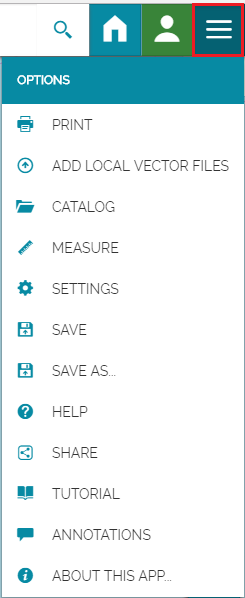
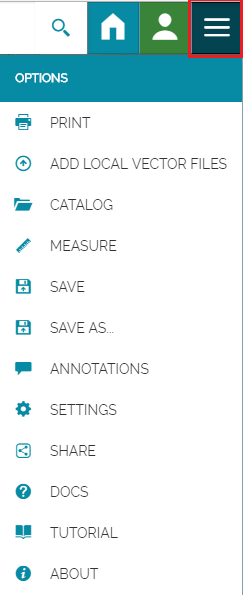
updates

diff --git a/docs/user-guide/widgets.md b/docs/user-guide/widgets.md
@@ -1,0 +1,93 @@
+# Creating Widgets
+******************
+
+In addition to adding layers to the map, in [MapStore 2](https://mapstore2.geo-solutions.it/mapstore/#/) the user can create widgets from the added layers. Widgets are graphical elements created by the user that describe and visualize qualitatively and quantitatively the data of the layer such as charts, texts, tables and counters. 
+
+* **Open** a new map.
+* **Add** a layer (e.g. USA Population).
+* **Select** the layer from the TOC.
+* **Click** on the widget icon <img src="img/widgets.png" style="max-width:25px;"/>. 
+
+The Widget page will open showing the various widget types to create. 
+
+  <img src="img/widget-list.png" style="max-width:400px;"/>
+
+Creating Chart Widget
+---------------------
+
+* **Click** on *Chart* from the list. Another page will open showing the Chart types (Bar Chart, Pie Chart and Line Chart). 
+  
+  <img src="img/chart-types.png" style="max-width:400px;"/>
+
+* **Select** for example the *Bar Chart*. You will be addressed to the configuration page to configure the data.
+
+  <img src="img/bar-chart.png" style="max-width:400px;"/>
+
+<br>
+
+On the top of the page, you can find a set of options <img src="img/widget-options.png" style="max-width:90px;"/> that allow you to switch back and forward the pages of the form, a connection button (highlighted in green which is active by default) that connects the chart to the viewport, and an advanced filter that allows you to plot only the filtered data. 
+
+* **Configure** the data you want to plot and the operation. Activating the *Advanced Options* you can customize the shape of the chart. 
+
+  <img src="img/configure-chart.png" style="max-width:400px;"/>
+
+* * **Click** on *Configure widget options*  <img src="img/next.png" style="max-width:25px;"/>. 
+   * **Set** a *Title* and a *Description*. 
+   * **Click** on *Save*.
+
+  <img src="img/widget-info.png" style="max-width:400px;"/>
+
+The widget will be added to the map. 
+
+<img src="img/widget-map.png" style="max-width:650px;"/>
+
+Expanding the options menu of the widget you can show the plotted data, edit the widget or delete it, download the data as a CSV file or save the image of the graph. 
+
+<img src="img/widget-menu.png" style="max-width:650px;"/>
+
+<br>
+<br>
+
+Similarly, you can add to the map Pie and Line Charts.
+
+Creating Text Widget
+--------------------
+
+* **Select** the Text widget from the list. The Text widget form will open where you can add a Title and the desired descriptive text. 
+
+  <img src="img/text-widget.png" style="max-width:650px;"/>
+
+* **Click** on the save button to add the widget to the map. 
+
+  <img src="img/text-map.png" style="max-width:500px;"/>
+
+Creating Table widget
+---------------------
+
+* **Select** the Table widget from the list. You will be addressed to the configuration page. 
+
+
+  <img src="img/table-widget.png" style="max-width:650px;"/>  
+
+* * **Choose** the fields you want to include in the table.
+  * **click** on the next button <img src="img/next.png" style="max-width:25px;"/>.
+
+  * **Set** a Title and a Description.
+  * **Add** the widget to the map. 
+
+    <img src="img/table-map.png" style="max-width:500px;"/>
+
+Creating Counter Widget
+-----------------------
+
+ * **Select** the Counter widget from the list. You will be addressed to the configuration page. 
+  * **Configure** the data you want to count.  
+
+    <img src="img/counter-widget.png" style="max-width:650px;"/> 
+
+  * **click** on the next button <img src="img/next.png" style="max-width:25px;"/>.
+
+  * **Set** a Title and a Description.
+  * **Add** the widget to the map.
+<b>
+  <img src="img/counter-map.png" style="max-width:500px;"/>

diff --git a/docs/user-guide/menu-bar.md b/docs/user-guide/menu-bar.md
@@ -12,9 +12,9 @@ The *Search Bar* of the portal allows you to find point of interests (POIs), str
 
   <img src="img/rome.png" style="max-width:700px;" />
 
-Option Menu
+Burger Menu
 -----------
-The *Option Menu* is the core of the *Menu Bar* and will be treated in details. It contains several options to add data from different sources to the map, perform measurments, and to save, print and share the created map. 
+The *Burger Menu* is the core of the *Menu Bar* and will be treated in details. It contains several options to add data from different sources to the map, perform measurments, and to save, print and share the created map. 
 
 <img src="img/menu-options.png" style="max-height:500px;" />
 
@@ -23,9 +23,9 @@ The *Option Menu* is the core of the *Menu Bar* and will be treated in details. 
 
 Click on the following links to learn more about the main options:
 
+* [PRINT](print): allows you to print a created map;
 * [ADD LOCAL VECTOR FILES](local-files): allows to import from your machine vector files to be added to  the map;
 * [CATALOG](catalog): allows you to import data from several remote services;
 * [MEASURE](measure): tools to perform measurments on the map;
 * [ANNOTATIONS](annotations): allows you to create customized annotations and add them to the map;
-* [PRINT](print): allows you to print a created map;
 * [SHARE](share): allows you to share your map.    

diff --git a/docs/user-guide/attributes-table.md b/docs/user-guide/attributes-table.md
@@ -2,7 +2,7 @@
 *****************
 In GIS, the attribute table associated to a vector layer is a table that stores tabular informations related to the layer. The columns of the table are called fields and the rows are called records. Each record of the attribute table corrisponds to one feature geometry of the layer. This relation allows to find records in the table (informations) by selecting features on the map and viceversa.
 
-In [MapStore 2](https://mapstore2.geo-solutions.it/mapstore/#/), accessing the attribute table of a vector layer allows you to edit the tabular data or directly the geometries on the map, to perform spatial queries and filters and to create charts from the data.
+In [MapStore 2](https://mapstore2.geo-solutions.it/mapstore/#/), accessing the attribute table of a vector layer allows you to edit the tabular data or directly the geometries on the map, to perform spatial queries and filters, and to create charts from the data.
 
 * **Open** a new map.
 * **Add** a vector layer (e.g. USA Population).
@@ -15,3 +15,5 @@ The attribute table will open showing the data table and a set of functionalitie
 
 Editing
 -------
+
+

diff --git a/docs/user-guide/toc.md b/docs/user-guide/toc.md
@@ -89,7 +89,7 @@ After adding a layer, several options can be accessed from the TOC allowing you 
 The remaining tools will be faced in detail in separate sections:
 
 *  <img src="img/properties.png" /> [Layer Settings](layer-settings): allows you to manage the layers in groups, to set the display mode and the style of the layers, and to set the format of the feature info.
-*  <img src="img/attributes-table.png" /> [Attributes Table](attributes-table): allows you to visualize, query, edit and analyze your data. 
+*  <img src="img/attributes-table.png" /> [Attribute Table](attributes-table): allows you to visualize, query, edit and analyze tabular data related to the layer. 
 * <img src="img/widgets.png" /> [Widgets](widgets): allows you to create charts, texts, tables and add them to the map. 
 
 

diff --git a/docs/user-guide/side-bar.md b/docs/user-guide/side-bar.md
@@ -29,7 +29,14 @@ Zooming tools
 
 3D Navigation
 -------------
-Based
+Based on CesiumJS, a 3D Navigator is implemented in [MapStore 2](https://mapstore2.geo-solutions.it/mapstore/#/) that allows you to display the map contents in 3D mode, particularly the layers will be overlaid on the globe.
+
+* **Open** a new map then **Add** a layer. 
+* **Click** on the 3D icon <img src="img/3D-icon.png" style="max-width:22px;"/> in the *Sidebar*.
+
+The scene will switch from 2D to 3D display mode and you will be guided by a brief tutorial that explain you how to interact with the map.  
+
+<img src="img/3D-mode.png" style="max-width:600px;" />
 
 
 

diff --git a/docs/user-guide/basemap.md b/docs/user-guide/basemap.md
@@ -1,0 +1,12 @@
+# Basemap Switcher
+******************
+
+The Basemap Switcher situated in the bottom left corner of the Data Frame allows you to change the world map background.
+
+* **Click** on the map miniature on the bottom left corner.
+
+  <img src="img/basemap.png" style="max-width:550px;" />
+
+* Several miniatures will be displayed that can be chosen in order to change the map background, such as Open Street Map, Google HYBRID, NASAGIBS, and OpenTopoMap. For example, **Choose** the OpenTopoMap basemap. The background of the map will change consequently.
+ 
+  <img src="img/topobasemap.png" style="max-width:550px;" />

diff --git a/docs/user-guide/exploring-maps.md b/docs/user-guide/exploring-maps.md
@@ -1,5 +1,5 @@
 # Exploring Maps
-**************
+****************
 In cartogrophy, a map is any two-dimensional graphic representation of the spatial relationships of the whole or a part of the earth. In digital cartography as in [MapStore 2](https://mapstore2.geo-solutions.it/mapstore/#/), a map consists in overlaying various layers of geographic data and their styles in data frames, it contains various map elements such as a legend and a scale bar.
 
 Let us discover the WebGIS portal interface and its main components by creating a simple map and adding a layer.  

diff --git a/docs/user-guide/footer.md b/docs/user-guide/footer.md
@@ -1,3 +1,6 @@
 # Footer
 ********
 
+Located at the bottom of the Data Frame, the Footer can be expanded by clicking on the mouse icon <img src="img/mouse-icon.png" style="max-width:25px;" /> and it contains a scale bar, a map scale switcher, the coordinates of the mouse pointer and a coordinate reference system switcher. 
+
+<img src="img/footer.png" style="max-width:600px;" />

diff --git a/docs/user-guide/admin.md b/docs/user-guide/admin.md
@@ -1,3 +1,6 @@
+# Managing Users and Groups
+***************************
+
 From the *Home Page*:
 
 * **Click** on the *Account* icon then **Log in** as administrator. 
